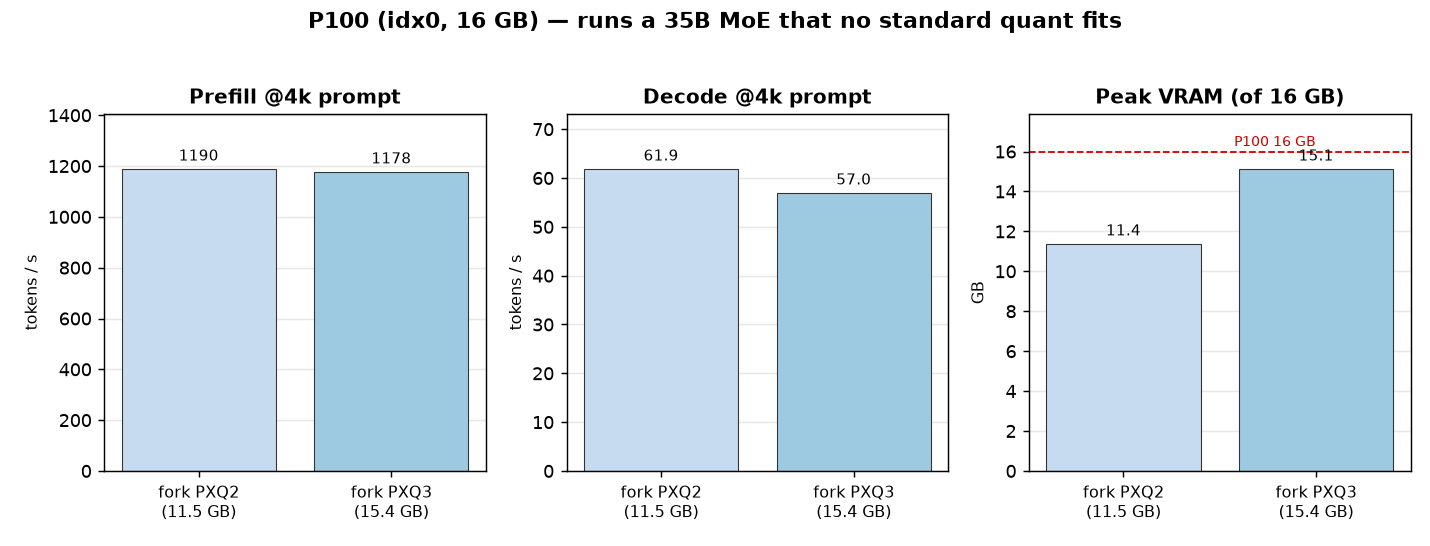
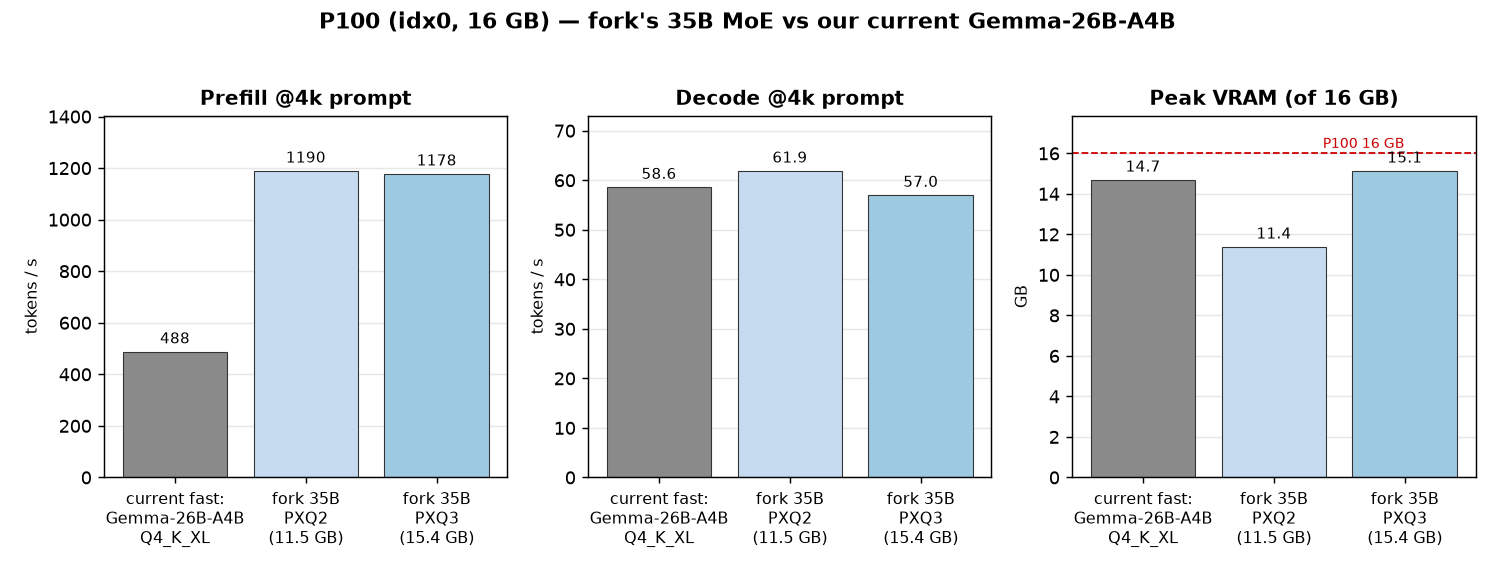
Add P100 comparison: fork 35B PXQ vs current Gemma-26B-A4B
Benchmark our current P100 fast slot (Gemma-4-26B-A4B Q4_K_XL) through the same
harness and add a §7.1 comparison: the fork's 35B PXQ2 beats it on prefill
(~2.4x), decode, and VRAM despite being a larger model — with a quality caveat
(Gemma is QAT ~4.5bpw vs PXQ2 2.27bpw, unmeasured). Regenerates the P100 chart
with the Gemma reference bar.

diff --git a/scripts/pxq-plot.py b/scripts/pxq-plot.py
@@ -49,7 +49,8 @@ def load(target):
 
 
 def steady(target, engine):
-    r = load(target)[engine][STEADY_PROMPT]
+    rows = load(target)[engine]
+    r = rows[max(rows)]  # largest prompt-size row = steady state
     return (float(r["prefill_tok_s"]), float(r["decode_tok_s"]),
             int(r["vram_mib"]) / 1024.0)
 
@@ -129,22 +130,23 @@ def fig_v100_all():
 
 
 def fig_p100():
-    specs = [("fork PXQ2\n(11.5 GB)", "p100-qwen35-pxq2", C_FORK_PXQ2),
-             ("fork PXQ3\n(15.4 GB)", "p100-qwen35-pxq3", C_FORK_PXQ3)]
+    specs = [("current fast:\nGemma-26B-A4B\nQ4_K_XL", "p100-gemma26b", C_STOCK),
+             ("fork 35B\nPXQ2\n(11.5 GB)", "p100-qwen35-pxq2", C_FORK_PXQ2),
+             ("fork 35B\nPXQ3\n(15.4 GB)", "p100-qwen35-pxq3", C_FORK_PXQ3)]
     labels = [s[0] for s in specs]
     colors = [s[2] for s in specs]
     pre, dec, vram = [], [], []
     for _, tgt, _ in specs:
-        p, d, v = steady(tgt, "fork")
+        p, d, v = steady(tgt, "stock" if tgt == "p100-gemma26b" else "fork")
         pre.append(p); dec.append(d); vram.append(v)
-    fig, axes = plt.subplots(1, 3, figsize=(11, 4.2))
+    fig, axes = plt.subplots(1, 3, figsize=(11.5, 4.4))
     bars(axes[0], labels, pre, colors, "Prefill @4k prompt", "tokens / s")
     bars(axes[1], labels, dec, colors, "Decode @4k prompt", "tokens / s", "{:.1f}")
     bars(axes[2], labels, vram, colors, "Peak VRAM (of 16 GB)", "GB", "{:.1f}")
     axes[2].axhline(16, color="#cc0000", ls="--", lw=1)
     axes[2].text(len(labels) - 1, 16.1, "P100 16 GB", color="#cc0000",
                  ha="right", va="bottom", fontsize=8)
-    fig.suptitle("P100 (idx0, 16 GB) — runs a 35B MoE that no standard quant fits",
+    fig.suptitle("P100 (idx0, 16 GB) — fork's 35B MoE vs our current Gemma-26B-A4B",
                  fontsize=12, fontweight="bold")
     fig.tight_layout(rect=(0, 0, 1, 0.95))
     p = os.path.join(OUT, "pxq-p100.png")

diff --git a/scripts/pxq-bench.py b/scripts/pxq-bench.py
@@ -71,6 +71,11 @@ ENGINES = {
 Q35 = f"{MODELS_DIR}/qwen3.6-35b-a3b"
 PXQ = f"{MODELS_DIR}/pxq"
 TARGETS = {
+    # --- current P100 MoE (Gemma-4-26B-A4B Q4_K_XL, our `fast` slot) for reference ---
+    "p100-gemma26b": {  # matches the pxq P100 settings for a like-for-like compare
+        "model": f"{MODELS_DIR}/gemma-4-26b-a4b/gemma-4-26B-A4B-it-qat-UD-Q4_K_XL.gguf",
+        "gpus": [0], "ctx": 8192, "batch": 1024, "ubatch": 1024},
+
     # --- stock llama.cpp on the standard quant (baseline) ---
     "v100-qwen35-q6k": {  # Q6_K ~29GB fits a single V100
         "model": f"{Q35}/Qwen3.6-35B-A3B-UD-Q6_K.gguf",

diff --git a/docs/benchmark_pxq_llama.md b/docs/benchmark_pxq_llama.md
@@ -156,11 +156,35 @@ result *is* that the fork runs a 35B-class MoE on a P100 at usable speed.
 | fork **PXQ3** | 0.38 s | 1193 → 1178 t/s | ~57–65 t/s | 15.4 GB |
 | fork **PXQ2** | 0.37 s | 1195 → 1190 t/s | ~61–69 t/s | 11.5 GB |
 
-![P100 — a 35B MoE where no standard quant fits](img/pxq-p100.png)
+![P100 — fork's 35B MoE vs our current Gemma-26B-A4B](img/pxq-p100.png)
 
 **Takeaway:** ~60 t/s decode and ~1.2k t/s prefill for a 35B MoE on a 16 GB Pascal card that
 otherwise **cannot load the model in any standard quant**. PXQ2 leaves ~4.5 GB headroom;
 PXQ3 leaves ~0.6 GB (8k ctx). PXQ6/PXQ4 (21.3/17.6 GiB) do not fit the P100.
+
+### 7.1 vs our current P100 MoE (Gemma-4-26B-A4B)
+
+The P100's daily `fast` slot is **Gemma-4-26B-A4B** (QAT `UD-Q4_K_XL`, ~4.5 bpw, ~3.8 B active).
+Run through the *same* harness/settings (ctx 8192, ubatch 1024, 4k prompt) the fork's 35B PXQ
+tiers compare as:
+
+| Model (P100) | bpw | Prefill @4k | Decode @4k | Peak VRAM | TTFT @128 |
+|---|---:|---:|---:|---:|---:|
+| **Gemma-4-26B-A4B** Q4_K_XL (current `fast`) | ~4.5 | 488 t/s | 58.6 t/s | 14.7 GB | 0.62 s |
+| fork **Qwen3.6-35B PXQ2** | ~2.27 | **1190 t/s** | **61.9 t/s** | **11.4 GB** | **0.37 s** |
+| fork **Qwen3.6-35B PXQ3** | ~3.27 | 1178 t/s | 57.0 t/s | 15.1 GB | 0.38 s |
+
+**On raw throughput the fork's 35B PXQ2 beats our current Gemma-26B on every axis** — **~2.4×
+prefill**, slightly faster decode, **~3 GB less VRAM**, and lower TTFT — despite being a
+*larger* model (35B / 256 experts vs 26B / A4B). PXQ3 matches Gemma's footprint (~15 GB) at the
+same ~2.4× prefill and comparable decode.
+
+**Caveat — quality is not equal.** Gemma-4-26B-A4B is **QAT** (quantization-aware trained), so
+its ~4.5 bpw Q4_K_XL is unusually high-quality for its size; PXQ2 at **2.27 bpw** is a very
+aggressive post-hoc quant and will almost certainly trade away accuracy (unmeasured here — no
+perplexity run). So PXQ2 is the *speed/footprint* winner, but **not** a proven quality
+replacement for the `fast` slot. PXQ3 (3.27 bpw, same VRAM) is the more like-for-like candidate
+if we ever wanted to A/B a 35B `fast` on the P100 — it would need a quality check first.
 
 ## 8. Results — dual V100 (idx1+idx2)
 